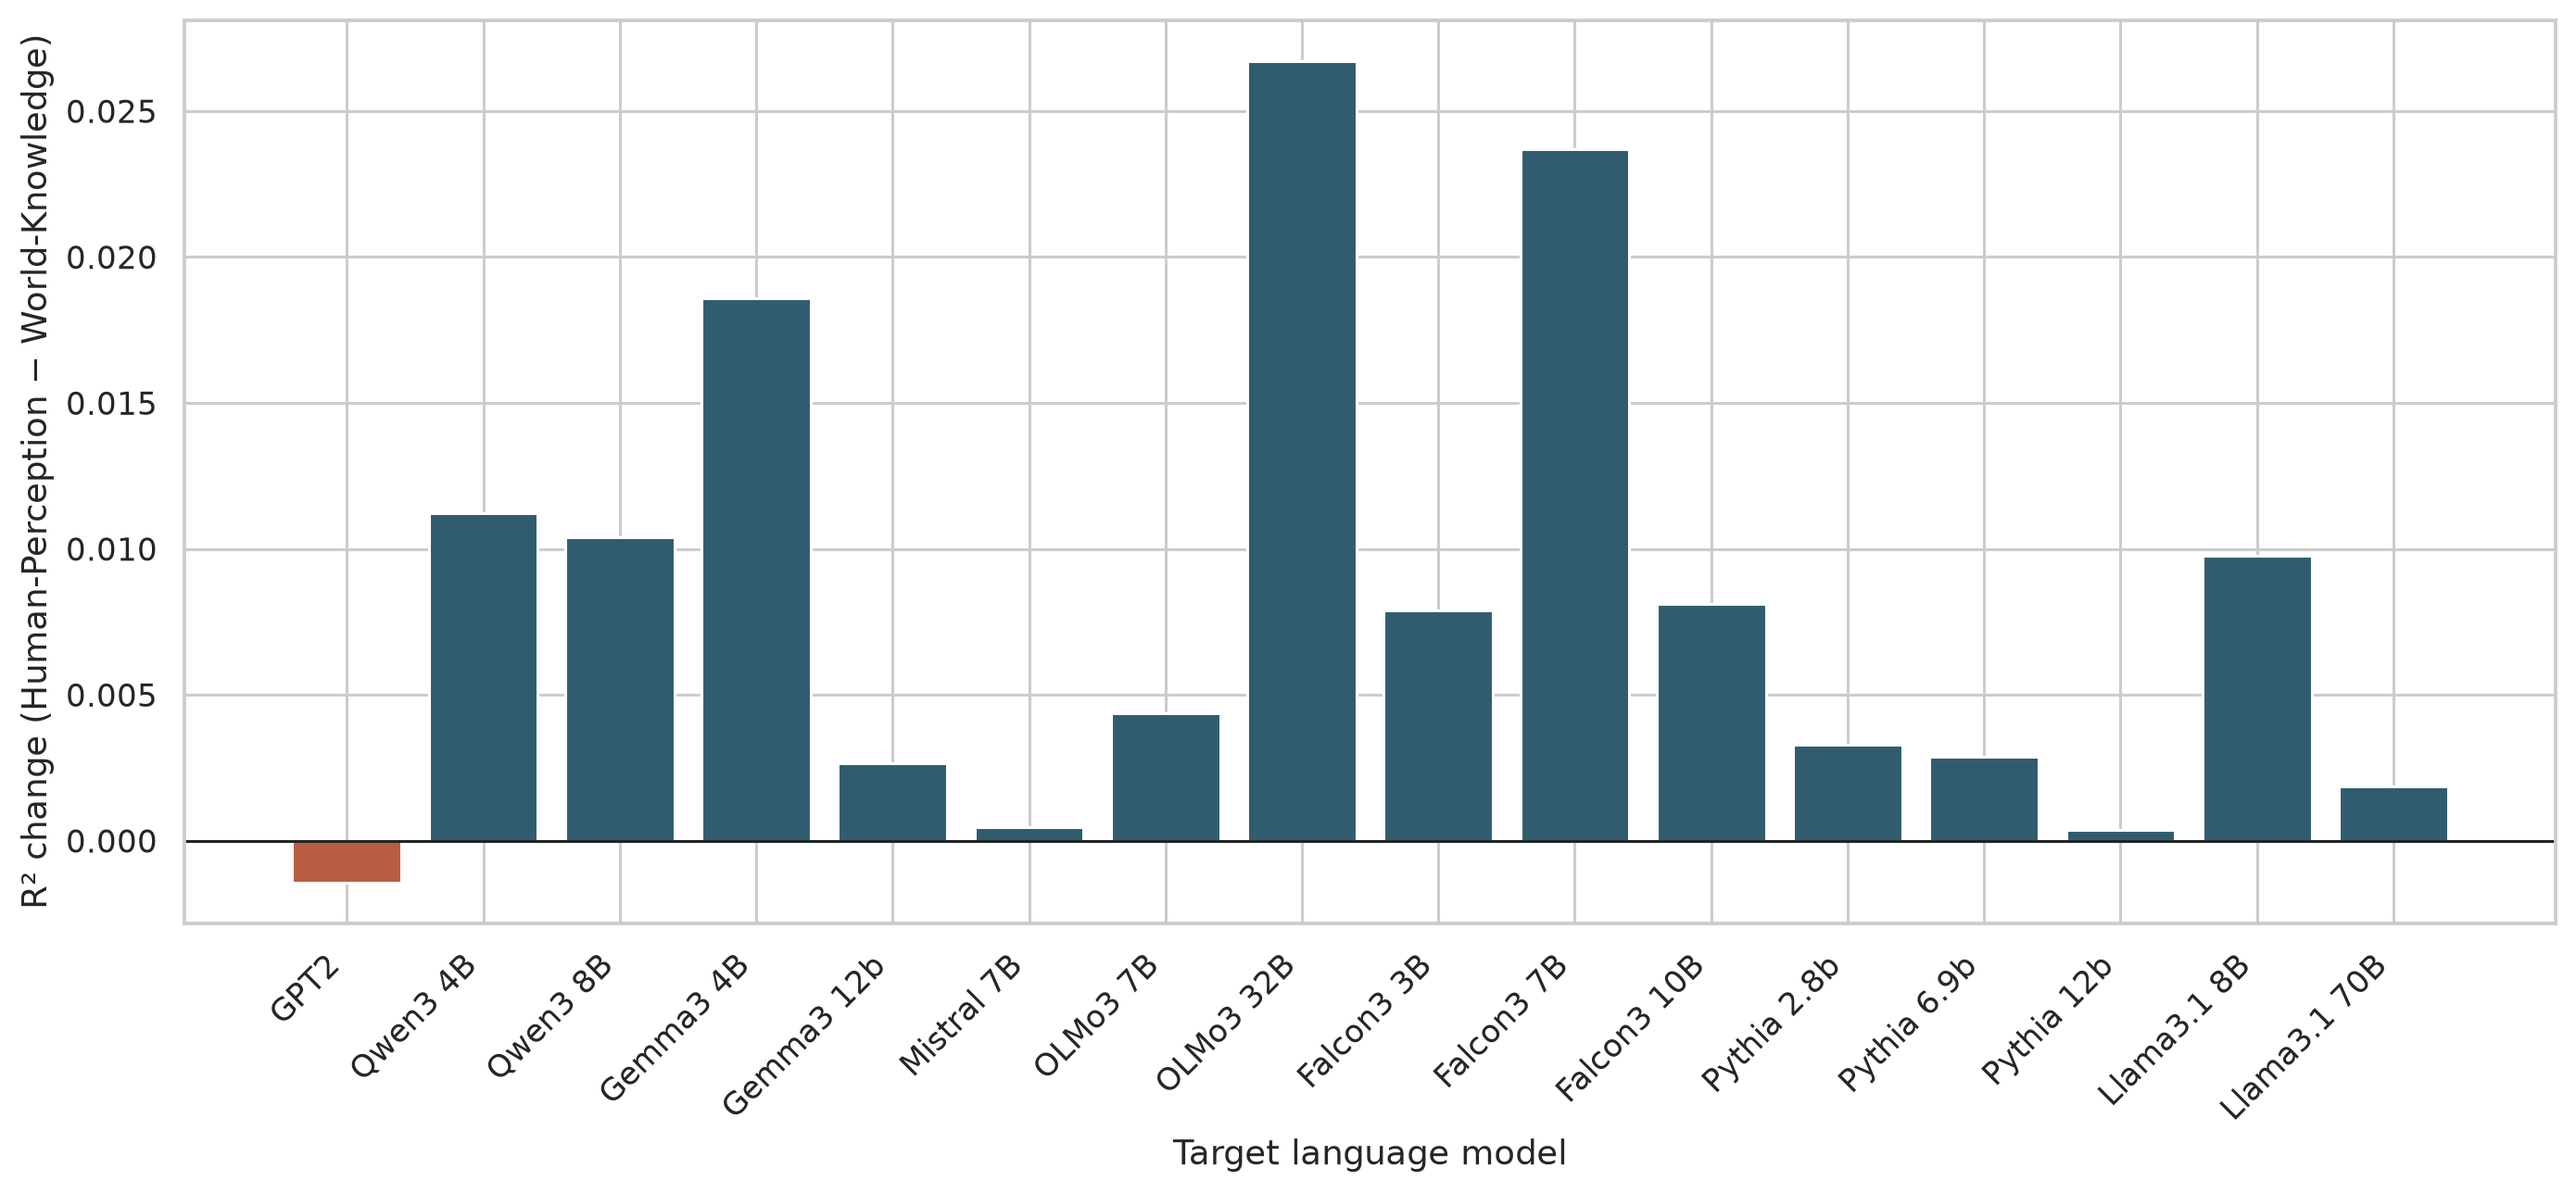
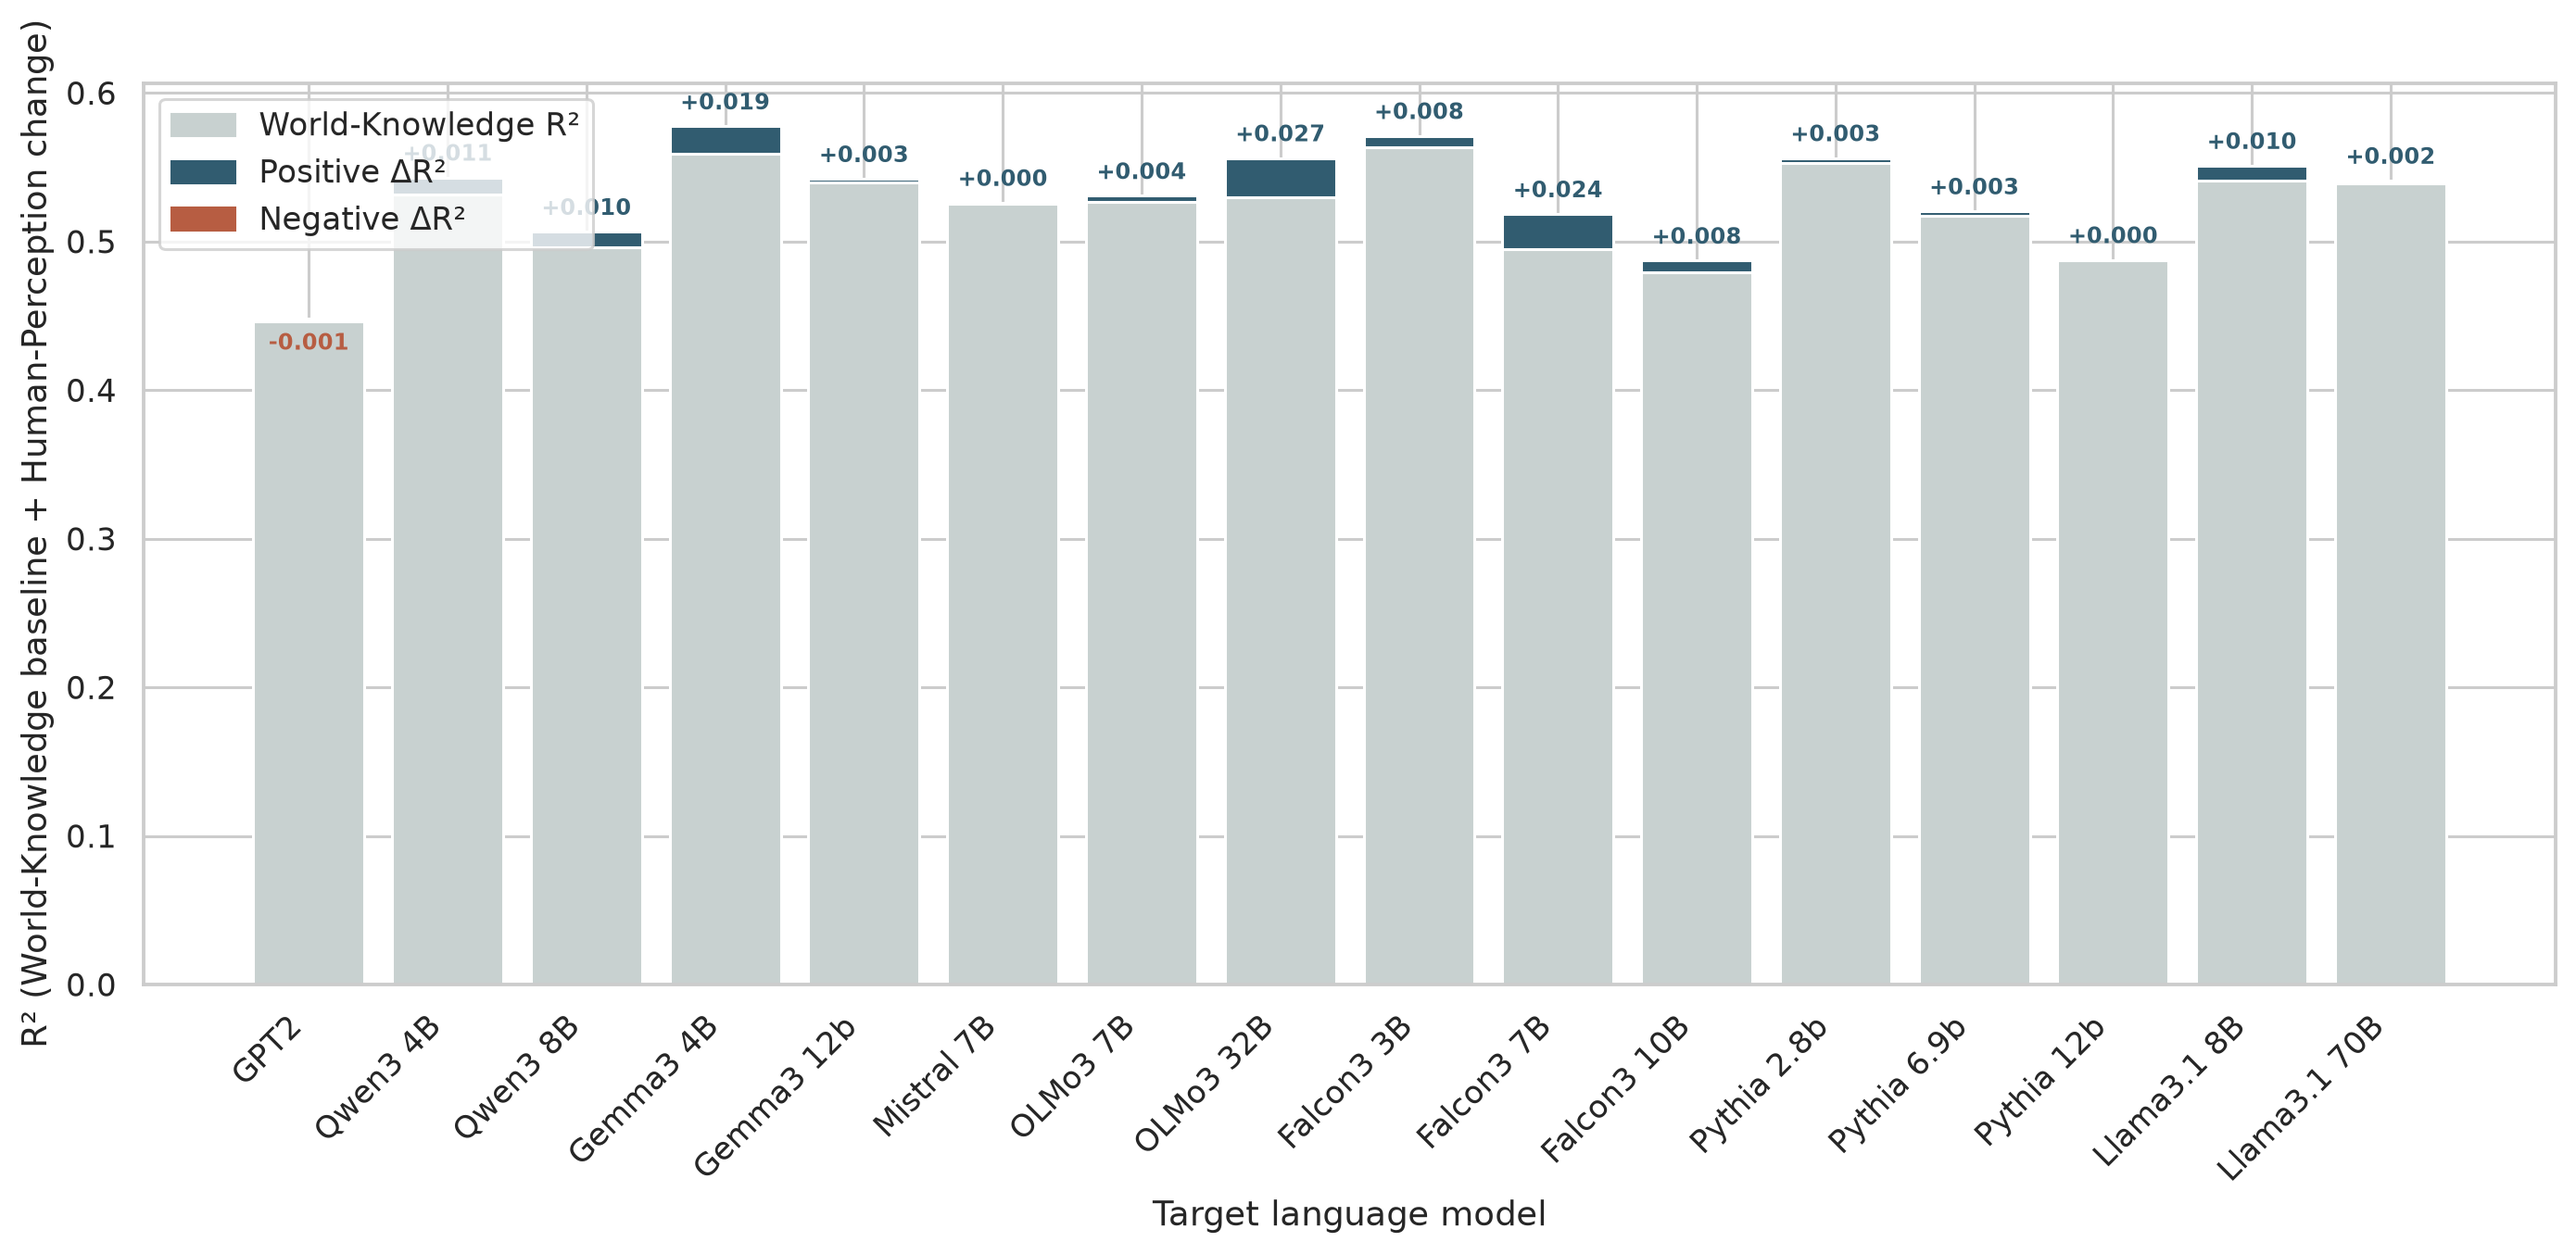
Update reports

diff --git a/knowledge_perception_model_report/report.html b/knowledge_perception_model_report/report.html
@@ -308,7 +308,7 @@
     </tr>
   </tbody>
 </table></div><img src="figures/r2_comparison.png" alt="R2 comparison"></section>
-        <section><h2>R² Change: Human-Perception vs World-Knowledge</h2><p class="muted">Each vertical bar is the change in R² when replacing the World-Knowledge model with the Human-Perception model for the same target language model. Values above zero favor the Human-Perception model.</p><img src="figures/r2_delta_human_minus_world.png" alt="R2 change from World-Knowledge to Human-Perception model"></section>
+        <section><h2>R² Change: Human-Perception vs World-Knowledge</h2><p class="muted">Each vertical bar starts at the World-Knowledge model's absolute R² (gray). The attached segment is the change after switching to the Human-Perception model: blue indicates an increase and red a decrease. Labels give the signed ΔR².</p><img src="figures/r2_delta_human_minus_world.png" alt="World-Knowledge R2 with signed change to the Human-Perception model"></section>
         <section><h2>Fixed-Effect Variance</h2><p class="muted">Variance is decomposed across the fixed effects in the Lasso-selected OLS models. Segment numbers in the horizontal bars map to the indexed legend below the plots.</p><div class="table-wrap"><table class="dataframe data-table">
   <thead>
     <tr style="text-align: right;">
